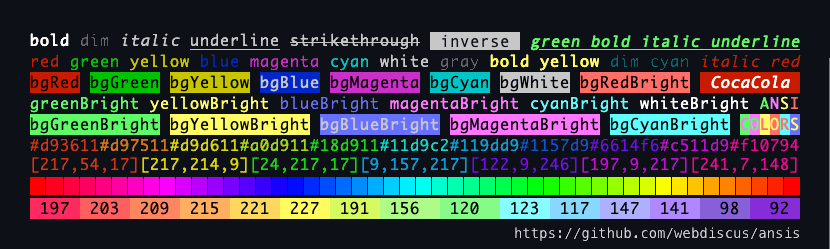
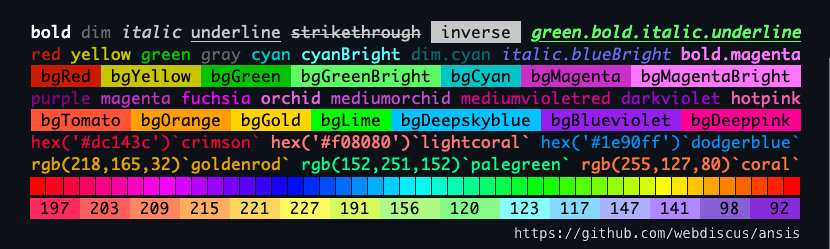
docs: update ansis demo screenshot

diff --git a/examples/ansis-styles-demo.js b/examples/ansis-styles-demo.js
@@ -1,80 +1,86 @@
+import spectrum from '../examples/fixtures/spectrum.js';
+
 import {
-  bgBlue,
-  bgBlueBright,
+  Ansis,
+  // Note: Standard ANSI colors differ in tone from their CSS color equivalents defined in 'css-color-names' package.
   black,
-  blue, blueBright,
-  cyan, cyanBright,
+  cyan,
+  cyanBright,
   dim, gray,
-  green, greenBright,
+  green,
   bold,
   inverse,
   italic,
-  magenta, magentaBright,
-  red, redBright,
+  magenta,
+  red,
   strikethrough,
   underline,
-  white, whiteBright,
-  yellow, yellowBright,
+  yellow,
+  hex,
+  rgb,
 } from 'ansis';
 
-import { hexToRgb } from '../src/utils.js';
-import spectrum from '../examples/fixtures/spectrum.js';
+import colorNames from 'css-color-names' with { type: 'json' };
 
-const out = `${bold`bold`} ${dim`dim`} ${italic`italic`} ${underline`underline`} ${strikethrough`strikethrough`} ${inverse` inverse `} ${green.bold.italic.underline`green bold italic underline`}` +
+const truecolor = new Ansis(3).extend(colorNames);
+
+const {
+  hotpink,
+  orchid,
+  mediumorchid,
+  mediumvioletred,
+  darkviolet,
+  fuchsia,
+  purple,
+  bgTomato,
+  bgOrange,
+  bgLime,
+  bgDeepskyblue,
+  bgBlueviolet,
+  bgDeeppink,
+  bgGold,
+} = new Ansis(3).extend(colorNames);
+
+/**
+ * Find truecolor names by length.
+ *
+ * @param {object} obj The input object.
+ * @param {number} length The desired length.
+ * @returns {string[]} List of color names matching the given length.
+ */
+function findColorByLength(obj, length) {
+  return Object.keys(obj).filter(key => {
+    if (key.length === length) {
+      console.log(` ${truecolor[key](key)} `)
+      return true;
+    }
+    return false;
+  });
+}
+
+//findColorByLength(colorNames, 9); // use it only for dev
+
+const out =
+  `${bold`bold`} ${dim`dim`} ${italic`italic`} ${underline`underline`} ${strikethrough`strikethrough`} ${inverse` inverse `} ${green.bold.italic.underline`green.bold.italic.underline`}` +
   '\n' +
-  `${red`red`} ${green`green`} ${yellow`yellow`} ${blue`blue`} ${magenta`magenta`} ${cyan`cyan`} ${white`white`} ${gray`gray`} ${bold.yellow`bold yellow`} ${dim.cyan`dim cyan`} ${red.italic`italic red`} ` +
+  `${red`red`} ${yellow`yellow`} ${green`green`} ${gray`gray`} ${cyan`cyan`} ${cyanBright`cyanBright`} ${dim.cyan`dim.cyan`} ${italic.blueBright`italic.blueBright`} ${bold.magenta`bold.magenta`}` +
   '\n' +
-  `${black.bgRed`bgRed`} ${black.bgGreen`bgGreen`} ${black.bgYellow`bgYellow`} ${bgBlue`bgBlue`} ${black.bgMagenta`bgMagenta`} ${black.bgCyan`bgCyan`} ${black.bgWhite`bgWhite`} ${black.bgRedBright`bgRedBright`} ${white.bgRed.bold.italic` CocaCola `}` +
+  `${black.bgRed` bgRed `}${black.bgYellow` bgYellow `}${black.bgGreen` bgGreen `}${black.bgGreenBright` bgGreenBright `}${black.bgCyan` bgCyan `}${black.bgMagenta` bgMagenta `}${black.bgMagentaBright` bgMagentaBright `} ` +
   '\n' +
-  `${greenBright`greenBright`} ${yellowBright`yellowBright`} ${blueBright`blueBright`} ${magentaBright`magentaBright`} ${cyanBright`cyanBright`} ${whiteBright`whiteBright`} ${greenBright`A`}${magentaBright`N`}${yellowBright`S`}${redBright`I`}` +
+  `${purple`purple`} ${magenta`magenta`} ${fuchsia`fuchsia`} ${orchid`orchid`} ${mediumorchid`mediumorchid`} ${mediumvioletred`mediumvioletred`} ${darkviolet`darkviolet`} ${hotpink`hotpink`}` +
   '\n' +
-  `${black.bgGreenBright`bgGreenBright`} ${black.bgYellowBright`bgYellowBright`} ${bgBlueBright`bgBlueBright`} ${black.bgMagentaBright`bgMagentaBright`} ${black.bgCyanBright`bgCyanBright`} ${magentaBright.bgGreenBright`C`}${greenBright.bgMagentaBright`O`}${redBright.bgYellowBright`L`}${yellowBright.bgRedBright`O`}${redBright.bgCyanBright`R`}${yellowBright.bgBlueBright`S`}` +
+  `${bgTomato.black` bgTomato `}${bgOrange.black` bgOrange `}${bgGold.black` bgGold `}${bgLime.black` bgLime `}${bgDeepskyblue.black` bgDeepskyblue `}${bgBlueviolet.black` bgBlueviolet `}${bgDeeppink.black` bgDeeppink `}` +
   '\n' +
-  [
-    '#d93611',
-    '#d97511',
-    '#d9d611',
-    '#a0d911',
-    '#18d911',
-    '#11d9c2',
-    '#119dd9',
-    '#1157d9',
-    '#6614f6',
-    '#c511d9',
-    '#f10794',
-  ].reduce((out, hex) => out + black.hex(hex)(hex), '') +
+  `${hex('#dc143c')("hex('#dc143c')`crimson`")} ${hex('#f08080')("hex('#f08080')`lightcoral`")} ${hex('#1e90ff')("hex('#1e90ff')`dodgerblue`")} ` +
+  '\n' +
+  `${rgb(218,165,32)("rgb(218,165,32)`goldenrod`")} ${rgb(52,251,152)("rgb(152,251,152)`palegreen`")} ${rgb(255,127,80)("rgb(255,127,80)`coral`")} ` +
   '\n' +
   spectrum.reduce((out, hex) => out + black.hex(hex)('█'), '') +
   '\n' +
-  [
-    '#d93611',
-    '#d9d609',
-    '#18d911',
-    '#099dd9',
-    '#7a09f6',
-    '#c509d9',
-    '#f10794',
-  ].reduce((out, hex) => {
-    let [r, g, b] = hexToRgb(hex);
-    return out + black.hex(hex)(`[${r},${g},${b}]`);
-  }, '') + '\n' +
-  [
-    ' 197 ',
-    ' 203 ',
-    ' 209 ',
-    ' 215 ',
-    ' 221 ',
-    ' 227 ',
-    ' 191 ',
-    ' 156  ',
-    ' 120  ',
-    ' 123 ',
-    ' 117 ',
-    ' 147 ',
-    ' 141 ',
-    '  98 ',
-    '  92 ',
-  ].reduce((out, code) => out + black.bg(parseInt(code, 10))(code), '') +
+  [' 197 ', ' 203 ', ' 209 ', ' 215 ', ' 221 ', ' 227 ', ' 191 ', ' 156  ', ' 120  ', ' 123 ', ' 117 ', ' 147 ', ' 141 ', '  98 ', '  92 '].reduce(
+    (out, code) => out + black.bg(parseInt(code, 10))(code),
+    ''
+  ) +
   '\n ';
 
 export { out as ansisStylesDemo };

diff --git a/examples/ansis-demo.js b/examples/ansis-demo.js
@@ -1,0 +1,5 @@
+import { ansisStylesDemo } from './ansis-styles-demo.js';
+
+console.log();
+console.log(ansisStylesDemo);
+console.log();
